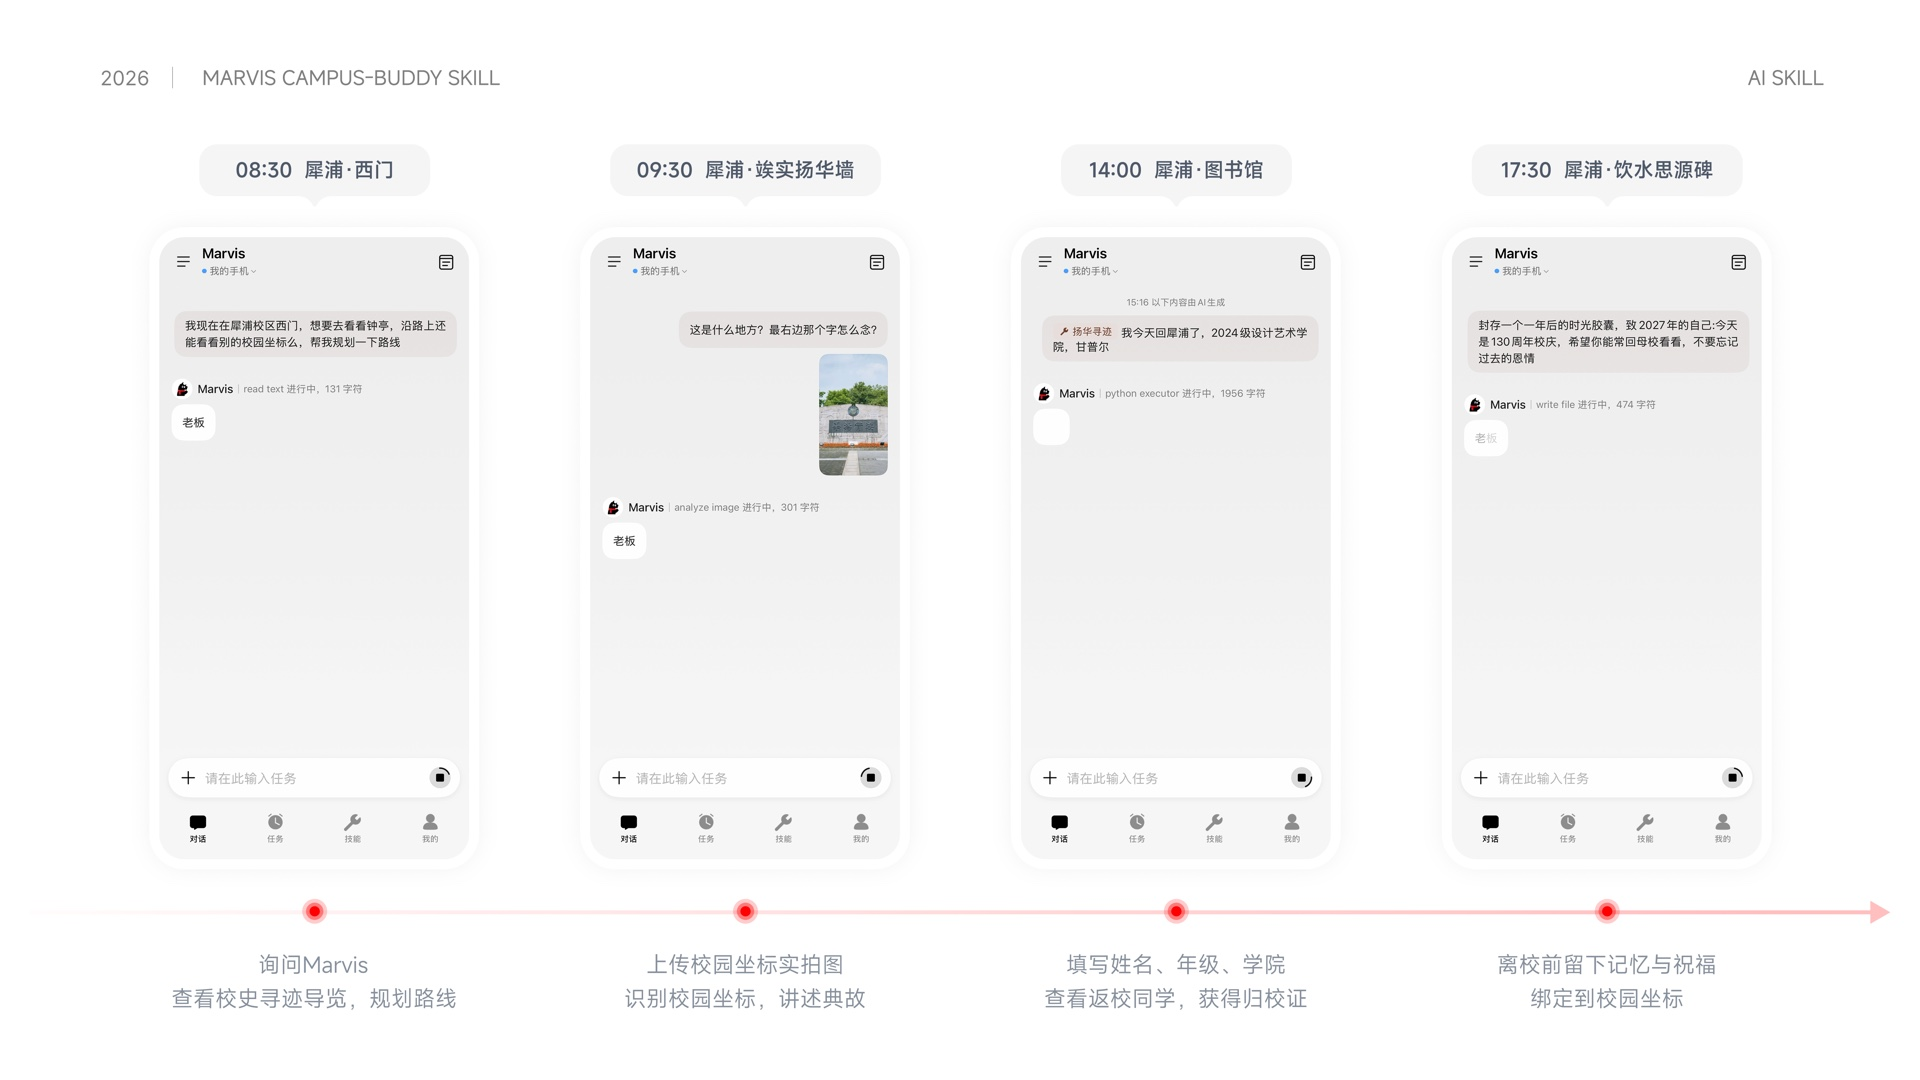
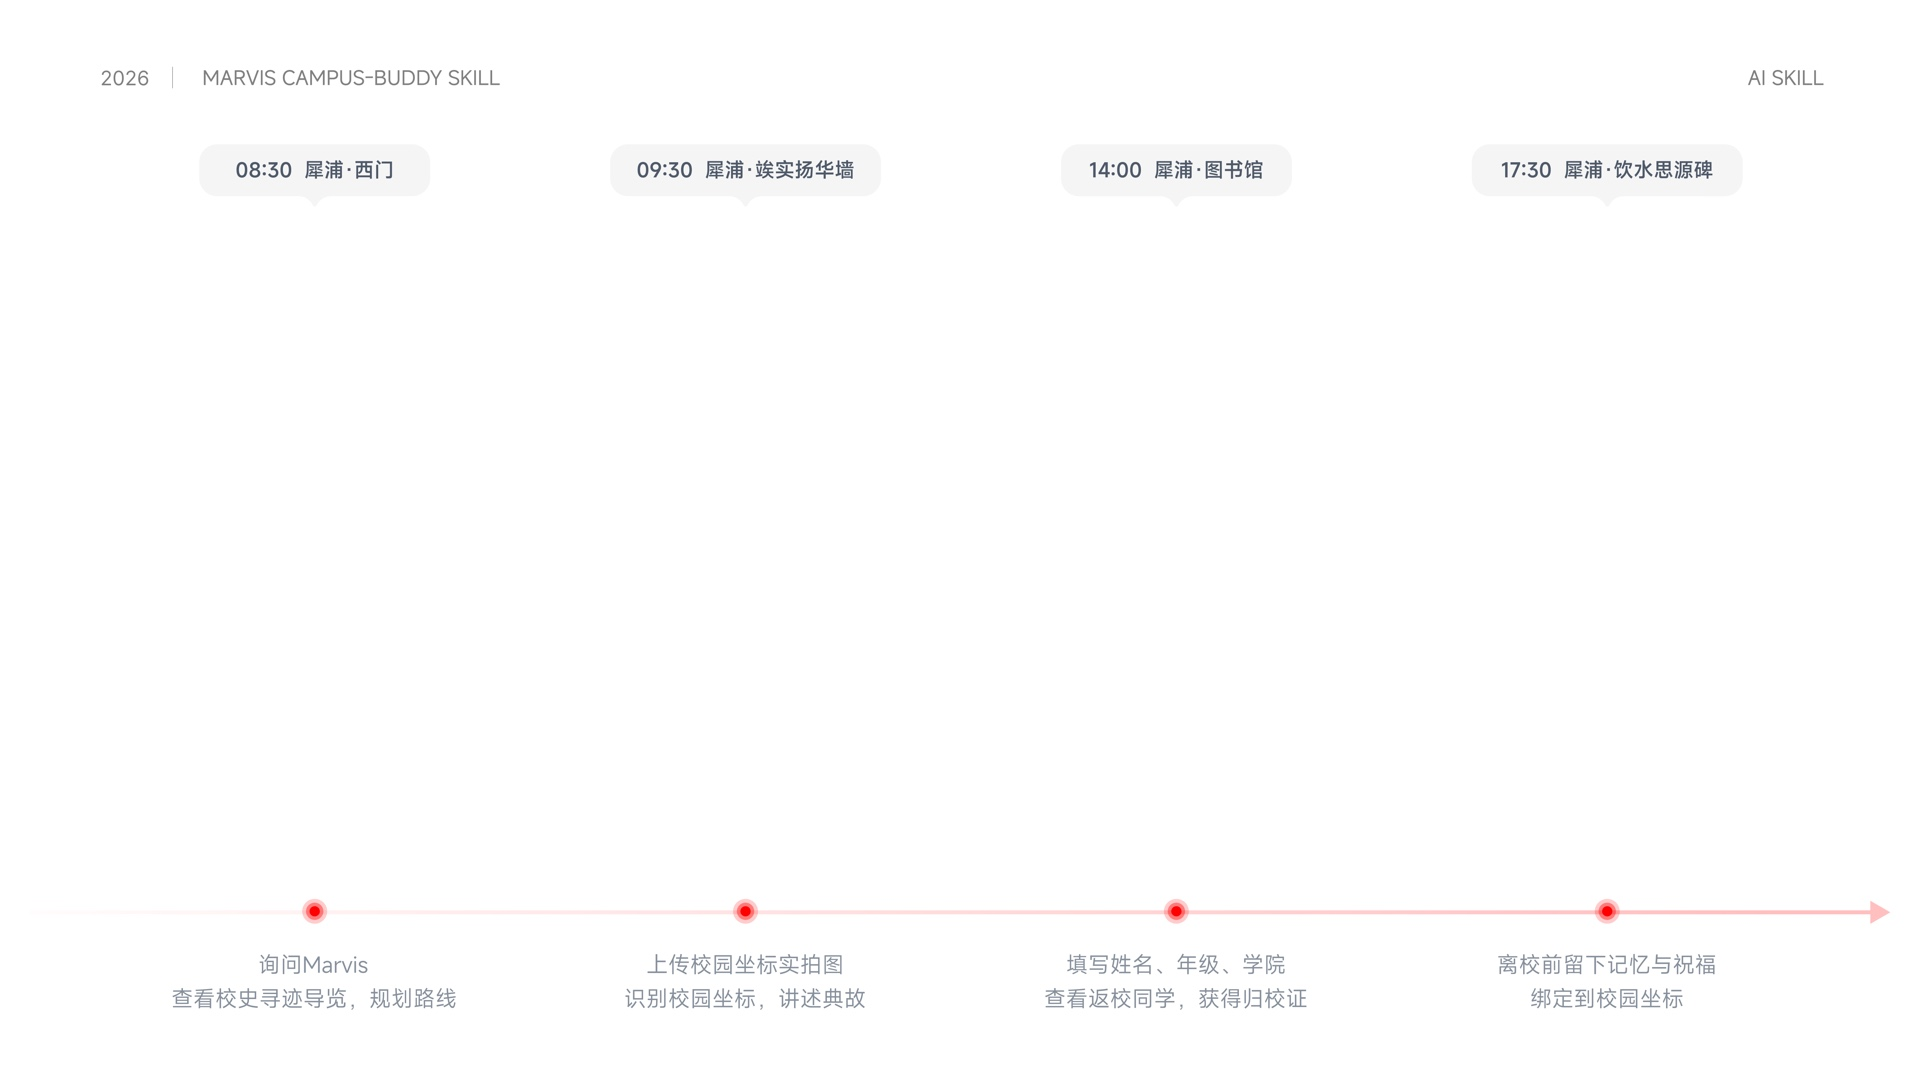
Align Marvis recordings to timeline

diff --git a/app/globals.css b/app/globals.css
@@ -165,7 +165,7 @@ body{--font-geist-sans:var(--font-sf);--font-geist-mono:var(--font-sf);font-fami
 .project-detail .detail-track{z-index:2;inset:86px 0 142px;align-items:center;gap:4.5vw;padding:16px 5vw;background:#050505;cursor:grab;scroll-snap-type:none;touch-action:pan-y}.project-detail .detail-track.is-dragging{cursor:grabbing;user-select:none}.project-detail .detail-slide,.project-detail .detail-slide:nth-child(even){--slide-scale:.965;--slide-opacity:.58;flex:0 0 min(76vw,1420px);height:min(42.75vw,800px,calc(100vh - 238px));margin-top:0;aspect-ratio:16/9;align-self:center;background:#0d0d0d;opacity:var(--slide-opacity);transform:scale(var(--slide-scale));transition:opacity .55s cubic-bezier(.16,1,.3,1),transform .7s cubic-bezier(.16,1,.3,1);will-change:transform,opacity}.project-detail .detail-slide img{object-fit:contain}
 .project-detail .detail-track.is-centered-single{justify-content:center;padding-inline:2.5vw}.project-detail .detail-track.is-centered-single .detail-slide{flex-basis:min(82vw,1530px);height:min(46.125vw,860px,calc(100vh - 220px));opacity:1;transform:scale(1)}
 .deferred-slide-image{position:absolute;inset:0;display:block}.deferred-case-image{display:block;width:100%;height:100%}.deferred-case-image img{display:block;width:100%;height:100%;object-fit:contain}
-.marvis-demo-slide{position:absolute;inset:0;overflow:hidden}.marvis-demo-slide>img{z-index:1}.marvis-phone-video{position:absolute;z-index:2;top:21.946%;width:16.142%;height:57.639%;border-radius:7.8%/3.9%;background:transparent;box-shadow:0 8px 28px rgba(28,30,34,.1);object-fit:cover;opacity:0;pointer-events:none;transition:opacity .28s ease}.marvis-phone-video.is-ready{opacity:1}.marvis-phone-video.phone-1{left:8.281%}.marvis-phone-video.phone-2{left:30.729%}.marvis-phone-video.phone-3{left:53.177%}.marvis-phone-video.phone-4{left:75.625%}
+.marvis-demo-slide{position:absolute;inset:0;overflow:hidden}.marvis-demo-slide>img{z-index:1}.marvis-phone-video{position:absolute;z-index:2;top:21.944%;width:16.142%;height:57.639%;border-radius:7.8%/3.9%;background:transparent;box-shadow:0 8px 28px rgba(28,30,34,.1);object-fit:cover;opacity:0;pointer-events:none;transition:opacity .28s ease;transform:translateX(-50%)}.marvis-phone-video.is-ready{opacity:1}.marvis-phone-video.phone-1{left:16.363%}.marvis-phone-video.phone-2{left:38.811%}.marvis-phone-video.phone-3{left:61.267%}.marvis-phone-video.phone-4{left:83.715%}
 .detail-gallery-meta{position:absolute;z-index:6;left:3.646%;bottom:18px;width:min(720px,47vw);padding-top:10px;background:linear-gradient(90deg,#050505 82%,transparent);pointer-events:none}.detail-gallery-meta>span{display:block;margin-bottom:5px;color:#777;font:600 10px/1.2 var(--font-sf);letter-spacing:.1em}.detail-gallery-meta h3{margin:0 0 7px;font:600 clamp(19px,1.38vw,27px)/1.2 "PingFang SC","苹方-简",var(--font-sf)}.detail-gallery-meta>p{max-width:620px;margin:0 0 9px;color:#aaa;font:400 clamp(10px,.7vw,14px)/1.4 "PingFang SC","苹方-简",var(--font-sf)}.detail-gallery-meta dl{display:flex;gap:36px;margin:0}.detail-gallery-meta dl div{display:flex;gap:10px}.detail-gallery-meta dt,.detail-gallery-meta dd{margin:0;font:600 9px/1.2 var(--font-sf);letter-spacing:.08em}.detail-gallery-meta dt{color:#777}.detail-gallery-switch{position:absolute;z-index:8;right:3.646%;bottom:30px;display:flex;gap:28px}.detail-gallery-switch button{padding:0;border:0;background:none;color:#fff;font:600 12px/1 var(--font-sf);letter-spacing:.05em;cursor:pointer}
 
 @media(max-width:760px){.work-cards{height:calc((var(--project-count) - 1)*86vh + 100vh)}.card-stage{top:70px;height:calc(100svh - 70px);min-height:620px}.card-stage-head{left:5vw;right:5vw;top:18px}.card-background{top:47%;font-size:40vw}.project-card-stack{width:78vw;height:min(68vh,620px);border-radius:22px}.project-card-stack figure{height:52%;border-radius:15px}.project-card-copy{padding:15px 8px 8px}.project-card-copy h3{font-size:8vw}.project-card-copy p{font-size:10px}.card-counter{right:5vw;bottom:18px}.detail-gallery-nav{grid-template-columns:auto minmax(0,1fr) 48px;height:72px;padding:0 5vw}.detail-gallery-brand{font-size:14px}.detail-gallery-heading{gap:5px}.detail-gallery-heading strong{max-width:52vw;font-size:11px}.detail-gallery-heading small{font-size:7px;letter-spacing:.1em}.project-detail .detail-track{inset:72px 0 226px;gap:7vw;padding:12px 3vw}.project-detail .detail-slide,.project-detail .detail-slide:nth-child(even){flex-basis:94vw;width:94vw;height:auto;margin-top:0;aspect-ratio:16/9}.detail-gallery-meta{left:5vw;bottom:74px;width:90vw;background:linear-gradient(90deg,#050505 88%,transparent)}.detail-gallery-meta h3{font-size:18px}.detail-gallery-meta>p{max-width:84vw;margin-bottom:7px;font-size:9px}.detail-gallery-meta dl{gap:18px;flex-wrap:wrap}.detail-gallery-switch{right:5vw;bottom:28px;gap:18px}}
